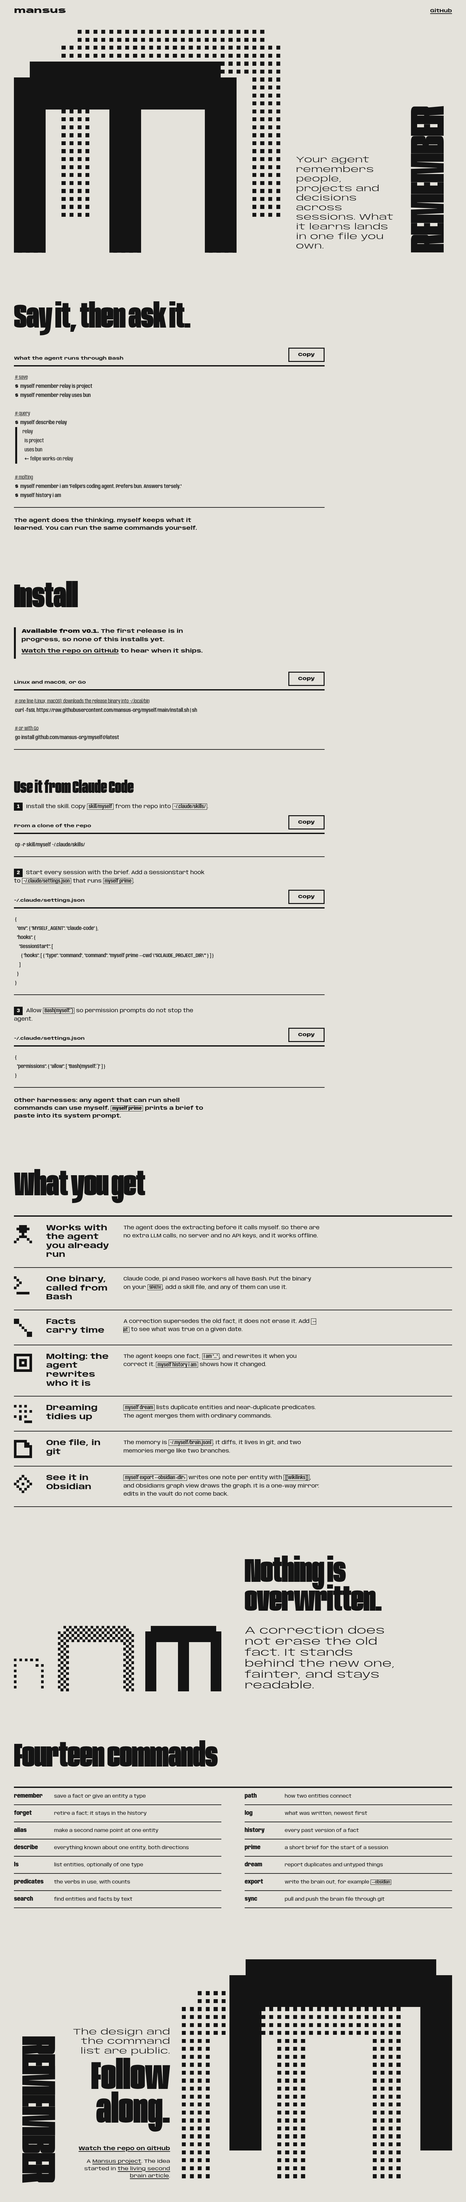
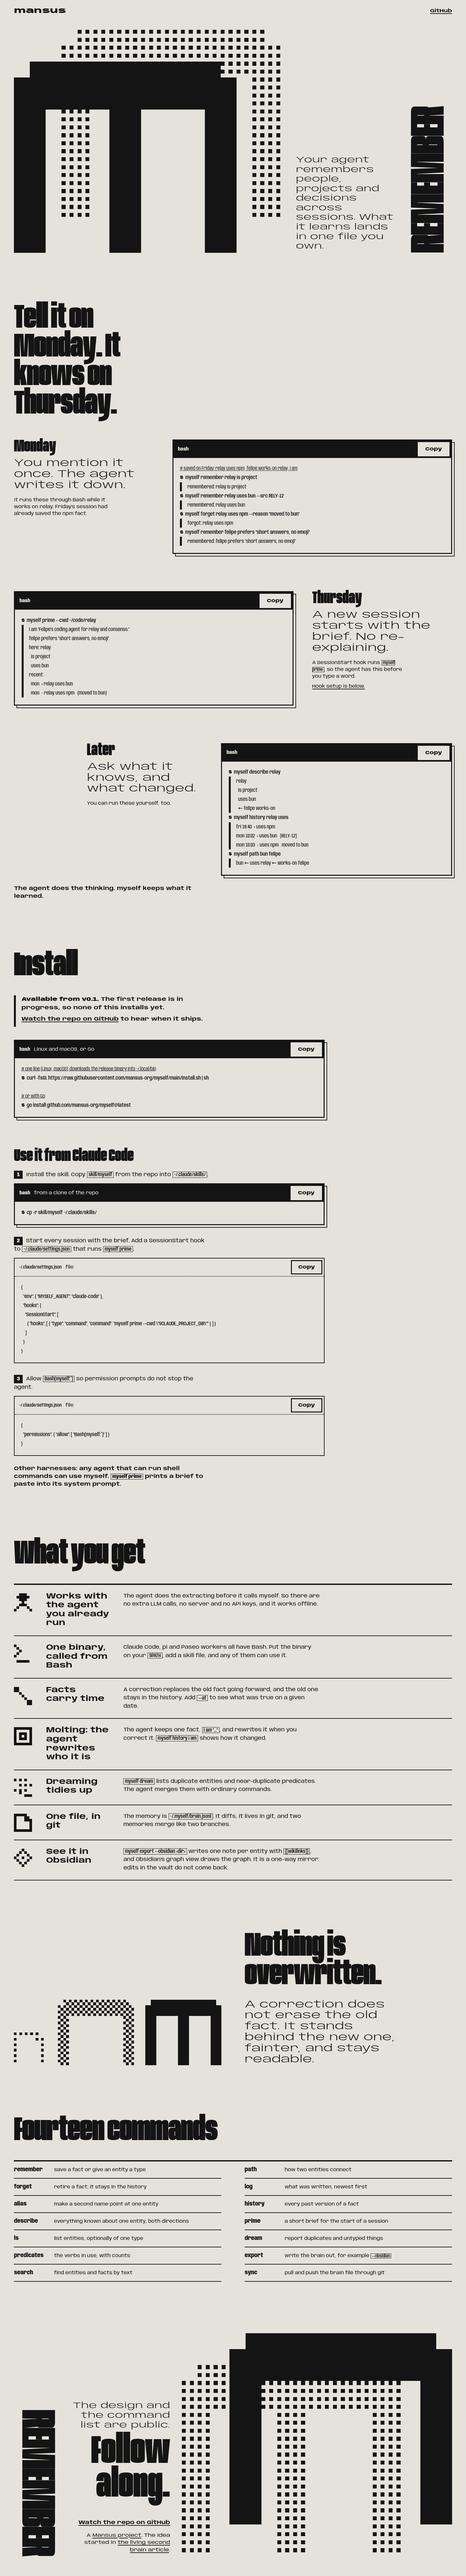
Landing: record terminal override, example notes, fresh screenshots

diff --git a/design/README.md b/design/README.md
@@ -28,12 +28,18 @@ users or speed claims. The status is stated once, in the Install section: v0.1 i
   statements, width 108 for reading, width 80 for code (no monospace font).
 - **Bitmaps:** the m, three shells and seven 7×7 signs are drawn cell by cell and rendered as
   crisp SVG. Dither is real squares on a sub-grid, so it stays 1-bit at any size.
-- **Example block:** the first example is two ruled lines around the commands, with a caption and a Copy
-  button. The fake terminal window (title bar, window chrome, offset shadow) was removed (R-05). Prompts
-  are heavy, comments dotted-underlined, output marked by a bar.
+- **Terminal windows:** kept by owner decision (overrides antislop R-05); myself is a CLI and the terminal is the product.
+  A window is a 3px ink frame with an ink title bar (`bash`, plus the Copy button) over a paper body, with a small
+  offset shadow for the elevation of "this is where you type". No traffic-light dots, no dark theme. Copy takes only
+  the lines after `$`, never output or comments.
+- **Files are not terminals:** the `~/.claude/settings.json` snippets use a lighter panel: 2px frame, paper title bar with the
+  path and a dotted rule, no shadow. Ink bar means "you type this", paper bar means "you paste this into a file".
+- **Cross-session example:** the hero example is a story in three windows, staggered down the page (stacked on mobile):
+  Monday the agent saves facts, Thursday a fresh session starts from `myself prime`, later the user asks with
+  `describe`, `history` and `path`. All three show the same facts (relay, bun, npm, felipe), so the value is visible: nothing is re-explained.
 - **Install:** after the first example. The planned methods (install script, `go install`) are marked
   "Available from v0.1", then three numbered steps for Claude Code (skill, SessionStart hook,
-  `Bash(myself:*)`) and one line for other harnesses. Every block has a Copy button: 44 px tall, 3px focus
+  `Bash(myself:*)`) and one line for other harnesses. Every block has a Copy button (terminals copy commands only): 44 px tall, 3px focus
   ring, "Copied" for 1.5 s, and when the Clipboard API is missing or refuses it selects the text instead.
   Long lines scroll inside the block.
 - **What you get:** the seven ruled rows, each with its own sign, written from the user's side.
